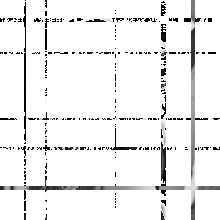
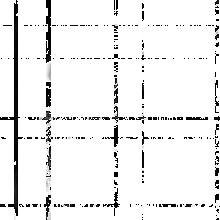
add union interstripation

diff --git a/edu/slavik/interstripation/surface/LinearEdgesSurface.py b/edu/slavik/interstripation/surface/LinearEdgesSurface.py
@@ -1,5 +1,6 @@
 from random import randint
 from edu.slavik.interstripation.surface.Surface import Surface
+from edu.slavik.interstripation.stripe.Region import Region
 from edu.slavik.interstripation.stripe.VerticalStripe import VerticalStripe
 from edu.slavik.interstripation.stripe.HorizontalStripe import HorizontalStripe
 """
@@ -13,7 +14,7 @@ class LinearEdgesSurface(Surface):
 
     def __init__(self, path, countV, countH, maxWidth, maxHeight):
         """
-        Create surface from source and remove stripes
+        Create surface from source
 
         Parameters
         ----------
@@ -31,7 +32,7 @@ class LinearEdgesSurface(Surface):
         super().__init__(path)
         self.verticalStripes = self.createVerticalStripesList(countV, maxWidth)
         self.horizontalStripes = self.createHorizontalStripesList(countH, maxHeight)
-        self.removeStripes()
+        self.regions = []
 
     def removeStripes(self):
         """
@@ -42,6 +43,16 @@ class LinearEdgesSurface(Surface):
 
         for i in range(len(self.horizontalStripes)):
             self.horizontalStripes[i].removeStripe(self)
+
+    def removeRegions(self):
+        """
+        Remove regions from surface
+        """
+        for i in range(len(self.verticalStripes)):
+            for j in range(len(self.horizontalStripes)):
+                region = Region(self.verticalStripes[i], self.horizontalStripes[j])
+                self.regions.append(region)
+                region.removeRegion(self)
 
     def createVerticalStripesList(self, count, maxWidth):
         """

diff --git a/edu/slavik/interstripation/core/standard/UnionInterstripation.py b/edu/slavik/interstripation/core/standard/UnionInterstripation.py
@@ -1,5 +1,37 @@
+"""
+Contains method for restore union stripes using standard interstripation
+
+@author: oleksii.slavik
+"""
+
+
 class UnionInterstripation:
 
     @staticmethod
     def restore(surface, region):
-        return 1
+        """
+        Restore given region data in given surface
+
+        Parameters
+        ----------
+        surface: Surface
+            surface data
+        region: Region
+            region data
+        """
+        startV = region.x1 - 1
+        startH = region.y1 - 1
+        endV = region.x2 + 1
+        endH = region.y2 + 1
+
+        for i in range(startV, endV):
+            for j in range(startH, endH):
+                surface.matrix[i, j] = \
+                    (i - endH) / (startH - endH) * surface.matrix[startH, j] - \
+                    (i - startH) / (startH - endH) * surface.matrix[endH, j] + \
+                    (j - endV) / (startV - endV) * surface.matrix[i, startV] - \
+                    (j - startV) / (startV - endV) * surface.matrix[i, endV] - \
+                    (i - endH) / (startH - endH) * (j - endV) / (startV - endV) * surface.matrix[startH, startV] + \
+                    (i - endH) / (startH - endH) * (j - startV) / (startV - endV) * surface.matrix[startH, endV] + \
+                    (i - startH) / (startH - endH) * (j - endV) / (startV - endV) * surface.matrix[endH, startV] - \
+                    (i - startH) / (startH - endH) * (j - startV) / (startV - endV) * surface.matrix[endH, endV]

diff --git a/edu/slavik/interstripation/core/standard/IntersectionInterstripation.py b/edu/slavik/interstripation/core/standard/IntersectionInterstripation.py
@@ -1,11 +1,27 @@
 from edu.slavik.interstripation.core.standard.HorizontalInterstripation import HorizontalInterstripation
 from edu.slavik.interstripation.core.standard.VerticalInterstripation import VerticalInterstripation
-from edu.slavik.interstripation.core.standard.UnionInterstripation import UnionInterstripation
+"""
+Contains method for restore intersected stripes using standard interstripation
+
+@author: oleksii.slavik
+"""
 
 
 class IntersectionInterstripation:
 
     @staticmethod
     def restore(surface, vertical, horizontal):
+        """
+        Restore given stripes data in given surface
+
+        Parameters
+        ----------
+        surface: Surface
+            surface data
+        vertical: Stripe
+            vertical stripe data
+        horizontal: Stripe
+            horizontal stripe data
+        """
         HorizontalInterstripation.restore(surface, horizontal)
         VerticalInterstripation.restore(surface, vertical)

diff --git a/edu/slavik/interstripation/results/standard/RestoreUnionStripes.py b/edu/slavik/interstripation/results/standard/RestoreUnionStripes.py
@@ -1,0 +1,24 @@
+from edu.slavik.interstripation.surface.Surface import Surface
+from edu.slavik.interstripation.surface.LinearEdgesSurface import LinearEdgesSurface
+from edu.slavik.interstripation.core.standard.UnionInterstripation import UnionInterstripation
+"""
+Contains example of restore intersected stripes using standard interstripation
+
+@author: oleksii.slavik
+"""
+
+# remove stripes
+surface = LinearEdgesSurface('../../resources/test.jpeg', 5, 5, 5, 5)
+surface.removeRegions()
+surface.save('../../resources/standard/corrupted/union.png')
+
+# restore vertical stripes
+for i in range(len(surface.regions)):
+    UnionInterstripation.restore(surface, surface.regions[i])
+
+surface.save('../../resources/standard/restored/union.png')
+
+# compare with original
+origin = Surface('../../resources/test.jpeg')
+error = origin.compare(surface)
+error.save('../../resources/standard/error/union.png')

diff --git a/edu/slavik/interstripation/results/standard/RestoreIntersectedStripes.py b/edu/slavik/interstripation/results/standard/RestoreIntersectedStripes.py
@@ -2,13 +2,14 @@ from edu.slavik.interstripation.surface.Surface import Surface
 from edu.slavik.interstripation.surface.LinearEdgesSurface import LinearEdgesSurface
 from edu.slavik.interstripation.core.standard.IntersectionInterstripation import IntersectionInterstripation
 """
-Contains example of restore vertical stripes using standard vertical interstripation
+Contains example of restore intersected stripes using standard interstripation
 
 @author: oleksii.slavik
 """
 
 # remove stripes
 surface = LinearEdgesSurface('../../resources/test.jpeg', 5, 5, 5, 5)
+surface.removeStripes()
 surface.save('../../resources/standard/corrupted/intersection.png')
 
 # restore vertical stripes

diff --git a/edu/slavik/interstripation/stripe/Region.py b/edu/slavik/interstripation/stripe/Region.py
@@ -1,0 +1,14 @@
+class Region:
+
+    def __init__(self, vertical, horizontal):
+        self.x1 = vertical.startAt
+        self.y1 = horizontal.startAt
+        self.x2 = vertical.endAt
+        self.y2 = horizontal.endAt
+
+    def removeRegion(self, surface):
+        for i in range(self.x1, self.x2):
+            for j in range(self.y1, self.y2):
+                surface.matrix[i, j] = -1
+
+        return surface

diff --git a/edu/slavik/interstripation/results/standard/RestoreHorizontalStripes.py b/edu/slavik/interstripation/results/standard/RestoreHorizontalStripes.py
@@ -9,6 +9,7 @@ Contains example of restore vertical stripes using standard horizontal interstri
 
 # remove horizontal stripes
 surface = LinearEdgesSurface('../../resources/test.jpeg', 0, 5, 5, 5)
+surface.removeStripes()
 surface.save('../../resources/standard/corrupted/horizontal.png')
 
 # restore horizontal stripes

diff --git a/edu/slavik/interstripation/results/standard/RestoreVerticalStripes.py b/edu/slavik/interstripation/results/standard/RestoreVerticalStripes.py
@@ -9,6 +9,7 @@ Contains example of restore vertical stripes using standard vertical interstripa
 
 # remove vertical stripes
 surface = LinearEdgesSurface('../../resources/test.jpeg', 5, 0, 5, 5)
+surface.removeStripes()
 surface.save('../../resources/standard/corrupted/vertical.png')
 
 # restore vertical stripes

diff --git a/edu/slavik/interstripation/core/standard/HorizontalInterstripation.py b/edu/slavik/interstripation/core/standard/HorizontalInterstripation.py
@@ -1,5 +1,5 @@
 """
-Implementation of Interstripation for restore horizontal stripes using standard interstripation
+Contains method for restore horizontal stripes using standard interstripation
 
 @author: oleksii.slavik
 """

diff --git a/edu/slavik/interstripation/core/standard/VerticalInterstripation.py b/edu/slavik/interstripation/core/standard/VerticalInterstripation.py
@@ -1,5 +1,5 @@
 """
-Implementation of Interstripation for restore vertical stripes using standard interstripation
+Contains method for restore vertical stripes using standard interstripation
 
 @author: oleksii.slavik
 """
